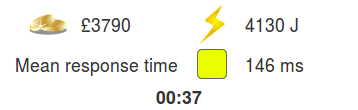
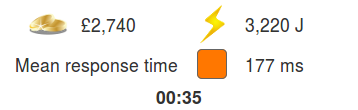
Adjusting numbers and level.

diff --git a/cloud.js b/cloud.js
@@ -6,6 +6,11 @@ $(document).ready(function() {
     var BASE_RESPONSE_TIME = 100;
     var PARTICLE_CLASS = "particle";
 
+    function prettyNumber(i) {
+        // From https://stackoverflow.com/questions/2901102/how-to-print-a-number-with-commas-as-thousands-separators-in-javascript
+        return i.toString().replace(/\B(?=(\d{3})+(?!\d))/g, ",");
+    }
+
     function Timer(callback) {
         var frameNum = 1;
         var intervalID = null;
@@ -166,7 +171,7 @@ $(document).ready(function() {
                 colourBox.attr("style", "background-color: hsl(" + hue + ", 100%, 50%);");
 
                 // Update the text
-                text.text(Math.round(textOverride ? textOverride : percent));
+                text.text(prettyNumber(Math.round(textOverride ? textOverride : percent)));
 
                 return this;
             },
@@ -279,8 +284,8 @@ $(document).ready(function() {
 
         return {
             update: function() {
-                money.text(cost.getMoney());
-                power.text(cost.getPower());
+                money.text(prettyNumber(cost.getMoney()));
+                power.text(prettyNumber(cost.getPower()));
             }
         };
     }
@@ -374,14 +379,16 @@ $(document).ready(function() {
 
     function Resource(name, unitCost, image, tooltip) {
         var WIDTH = 33;
-        var STEP = 10;
+        var MIN = 100;
+        var MAX = 1000;
+        var STEP = 100;
         var loadBox = LoadBox("%", WIDTH).addTo($("#load-section"));
         var slider = Slider(
-            10,
-            100,
+            MIN,
+            MAX,
             STEP,
             image,
-            tooltip + ". One unit costs: £" + unitCost.getMoney() + "/s, " + unitCost.getPower() + " W.",
+            tooltip + ". " + STEP + " units cost: £" + Math.round(STEP * unitCost.getMoney()) + "/s, " + (Math.round(STEP * unitCost.getPower())) + " W.",
             WIDTH
         ).addTo($("#provision-section"));
 
@@ -412,7 +419,7 @@ $(document).ready(function() {
                 loadBox.setValue(Math.min(loadPercent, 100));
 
                 var raw = Math.ceil((demand / DESIRED_PERCENT * 100) / STEP) * STEP;
-                var desiredPosition = Math.min(Math.max(raw, 10), 100);
+                var desiredPosition = Math.min(Math.max(raw, MIN), MAX);
 
                 if (autoMode) {
                     if (sliderPos < desiredPosition) {
@@ -713,15 +720,15 @@ $(document).ready(function() {
         var totalCost = Cost(0, 0);
 
         var resources = [
-            Resource(COMPUTE, Cost(1, 3), "processor.png", "Computation: processors to run the code"),
-            Resource(NETWORK, Cost(3, 1), "network.png", "Connectivity: network infrastructure in the data centre"),
-            Resource(STORAGE, Cost(2, 2), "harddrive.png", "Storage: hard drives and SSDs")
+            Resource(COMPUTE, Cost(0.1, 0.3), "processor.png", "Computation: processors to run the code"),
+            Resource(NETWORK, Cost(0.3, 0.1), "network.png", "Connectivity: network infrastructure in the data centre"),
+            Resource(STORAGE, Cost(0.2, 0.2), "harddrive.png", "Storage: hard drives and SSDs")
         ];
 
         var clientTypes = [
-            ClientType("Facebook", "facebook.png", 0.2, 0.2, 0.2),
-            ClientType("Dropbox", "dropbox.png", 0.2, 0.4, 0.8),
-            ClientType("YouTube", "yt.png", 0.2, 0.8, 0.6)
+            ClientType("Facebook", "facebook.png", 1, 1, 1),
+            ClientType("Dropbox", "dropbox.png", 1, 2, 4),
+            ClientType("YouTube", "yt.png", 1, 4, 3)
         ];
 
         for (i = 0; i < resources.length; i++) {
@@ -1135,9 +1142,9 @@ $(document).ready(function() {
 
         return {
             run: function(money, energy, responseTime, colour, callback) {
-                moneyDisplay.text(money);
-                energyDisplay.text(energy);
-                responseDisplay.text(responseTime);
+                moneyDisplay.text(prettyNumber(money));
+                energyDisplay.text(prettyNumber(energy));
+                responseDisplay.text(prettyNumber(responseTime));
                 colourBox.attr("style", "background-color: hsl(" + colour + ", 100%, 50%);");
                 exitCallback = callback;
                 modal.modal("show");
@@ -1276,20 +1283,70 @@ $(document).ready(function() {
                   $("#dialog-response-mode"));
 
     var level = {
-        length: 60,
+        length: 120,
         demand: {
-            2: [10, 0, 0],
-            10: [50, 30, 0],
-            20: [40, 40, 20],
-            22: [40, 45, 50],
-            25: [40, 50, 70],
-            40: [20, 80, 70],
-            50: [0, 50, 30],
-            55: [0, 25, 0],
-            59: [0, 0, 0]
+            2: [5, 0, 0],
+            4: [10, 0, 0],
+            6: [15, 0, 0],
+            8: [20, 0, 25],
+            10: [25, 0, 50],
+            12: [30, 0, 75],
+            14: [35, 0, 75],
+            16: [40, 40, 75],
+            18: [45, 80, 75],
+            20: [50, 80, 100],
+            22: [55, 80, 100],
+            24: [60, 80, 100],
+            26: [65, 80, 100],
+            28: [70, 30, 80],
+            30: [75, 10, 80],
+            32: [80, 0, 80],
+            34: [85, 0, 80],
+            36: [85, 0, 55],
+            38: [85, 0, 55],
+            40: [85, 10, 55],
+            42: [80, 10, 55],
+            44: [75, 10, 60],
+            46: [70, 10, 60],
+            48: [70, 0, 60],
+            50: [70, 0, 60],
+            52: [70, 0, 90],
+            54: [70, 0, 90],
+            56: [70, 0, 90],
+            58: [70, 0, 90],
+            60: [70, 0, 75],
+            62: [70, 25, 75],
+            64: [70, 50, 75],
+            66: [70, 50, 75],
+            68: [75, 50, 40],
+            70: [80, 10, 40],
+            72: [85, 0, 40],
+            74: [90, 0, 40],
+            76: [95, 0, 60],
+            78: [100, 0, 60],
+            80: [95, 0, 60],
+            82: [90, 35, 60],
+            84: [85, 65, 55],
+            86: [80, 65, 55],
+            88: [75, 65, 55],
+            90: [70, 65, 55],
+            92: [65, 70, 80],
+            94: [60, 10, 80],
+            96: [55, 0, 80],
+            98: [50, 0, 80],
+            100: [45, 0, 100],
+            102: [40, 0, 100],
+            104: [35, 0, 100],
+            106: [30, 45, 100],
+            108: [25, 90, 75],
+            110: [20, 90, 75],
+            112: [15, 90, 50],
+            114: [10, 40, 50],
+            116: [5, 0, 25],
+            118: [0, 0, 25],
+            120: [0, 0, 0]
         },
         failure: {
-            30: [1, 3, 5]
         }
     };
 

diff --git a/cloud.html b/cloud.html
@@ -226,7 +226,7 @@
             </p>
             <p>Created by <a href="http://github.com/CallumCameron" target="_blank">Callum Cameron</a>, for <a href="http://www.cas.scot/" target="_blank">Computing At School Scotland</a> and the <a href="http://www.gla.ac.uk/schools/computing/" target="_blank">School of Computing Science, University of Glasgow</a>.</p>
             <p>The Cloud Simulator is open-source software. This means you are free to download the code, see how it works, modify it, and share it. You can download the code <a href="http://github.com/CallumCameron/cloud-simulator" target="_blank">on GitHub</a>. If you find a bug, or think something could be improved, please get in touch, or open an issue or a pull request!</p>
-            <p><strong>Image Credits</strong></p>
+            <strong>Image Credits</strong>
             <ul>
               <li>The Google, Facebook, Dropbox, and YouTube logos belong to their respective companies.</li>
               <li>The data centre photo is from the <a href="http://www.google.com/about/datacenters/gallery/" target="_blank">Google Data Centres gallery</a>.</li>
